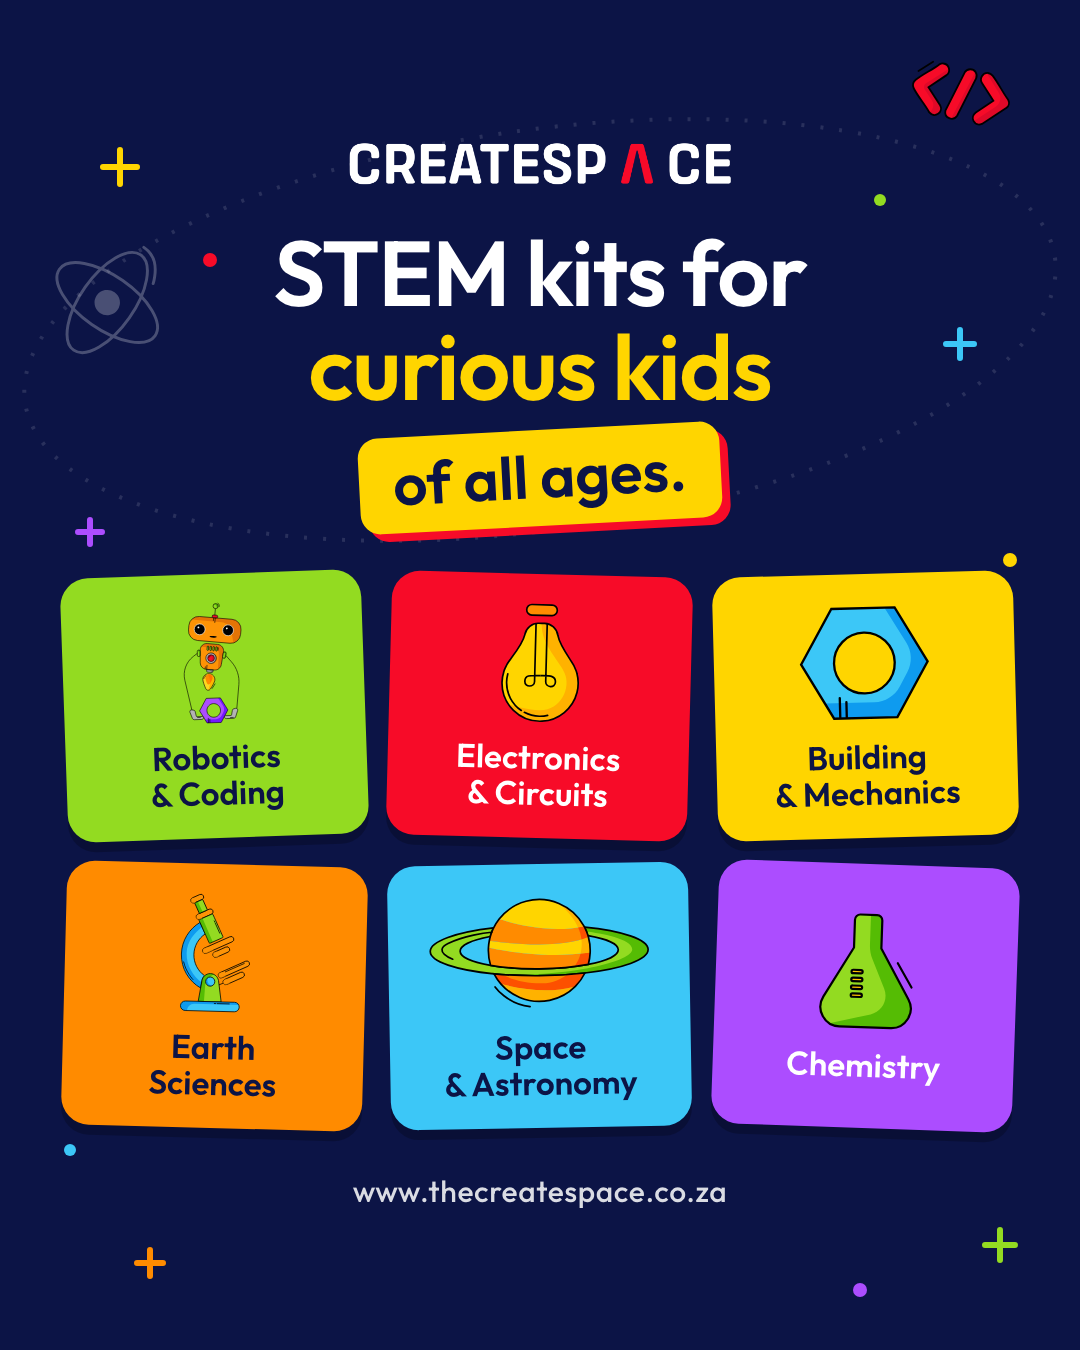
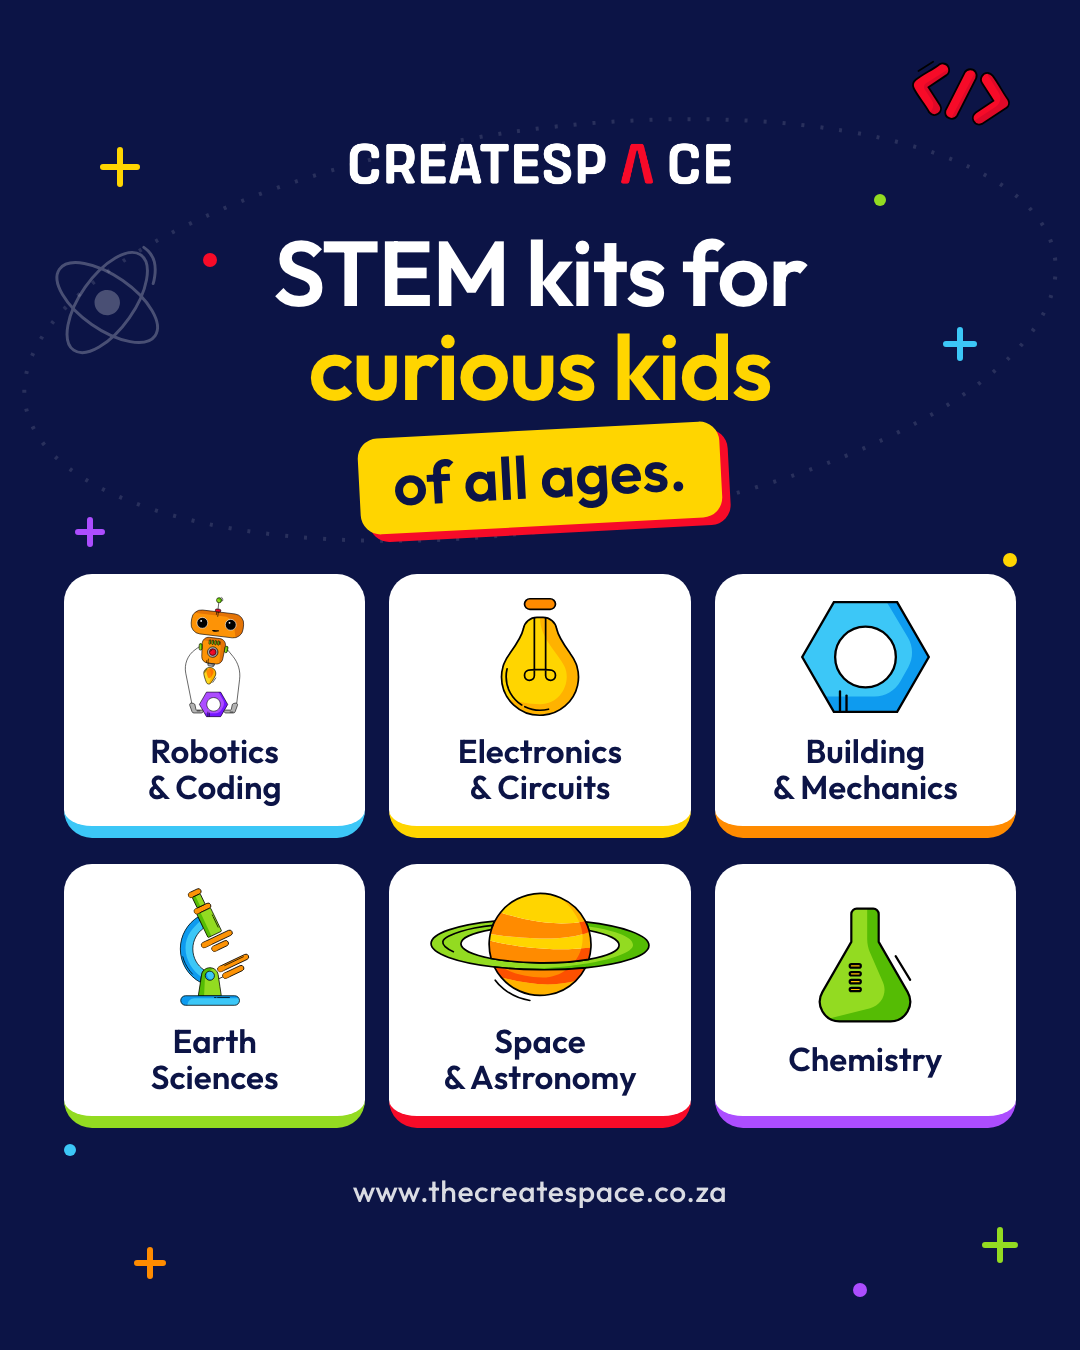
Return the Instagram post to straight white tiles, keeping the background

diff --git a/marketing/campaigns/2026-10-google-profile/instagram-categories.html b/marketing/campaigns/2026-10-google-profile/instagram-categories.html
@@ -60,8 +60,8 @@
       width: 100%;
     }
     .tile {
-      background: var(--bg);
-      color: var(--ink, var(--cs-navy));
+      background: var(--cs-white);
+      color: var(--cs-navy);
       border-radius: 28px;
       height: 264px;
       display: flex;
@@ -69,8 +69,7 @@
       align-items: center;
       justify-content: center;
       gap: 14px;
-      transform: rotate(var(--tilt, 0deg));
-      box-shadow: 0 10px 0 rgba(0, 0, 0, 0.22);
+      border-bottom: 12px solid var(--accent);
     }
     .tile img { height: 124px; width: auto; max-width: 240px; display: block; }
     .tile span { font-size: 33px; font-weight: 600; line-height: 1.1; }
@@ -112,12 +111,12 @@
     <div class="sticker">of all ages.</div>
 
     <div class="grid">
-      <div class="tile" style="--bg: var(--cs-green); --tilt: -2deg"><img src="../../creative/kit/illustrations/robot-1.svg" alt=""><span>Robotics<br>&amp; Coding</span></div>
-      <div class="tile" style="--bg: var(--cs-red); --ink: var(--cs-white); --tilt: 1.5deg"><img src="../../creative/kit/illustrations/lightbulb.svg" alt=""><span>Electronics<br>&amp; Circuits</span></div>
-      <div class="tile" style="--bg: var(--cs-yellow); --tilt: -1.5deg"><img src="../../creative/kit/illustrations/nut-1.svg" alt=""><span>Building<br>&amp; Mechanics</span></div>
-      <div class="tile" style="--bg: var(--cs-orange); --tilt: 1.5deg"><img src="../../creative/kit/illustrations/microscope.svg" alt=""><span>Earth<br>Sciences</span></div>
-      <div class="tile" style="--bg: var(--cs-blue); --tilt: -1deg"><img src="../../creative/kit/illustrations/planet-1.svg" alt=""><span>Space<br>&amp; Astronomy</span></div>
-      <div class="tile" style="--bg: var(--cs-purple); --ink: var(--cs-white); --tilt: 2deg"><img src="../../creative/kit/illustrations/beaker-1.svg" alt=""><span>Chemistry</span></div>
+      <div class="tile" style="--accent: var(--cs-blue)"><img src="../../creative/kit/illustrations/robot-1.svg" alt=""><span>Robotics<br>&amp; Coding</span></div>
+      <div class="tile" style="--accent: var(--cs-yellow)"><img src="../../creative/kit/illustrations/lightbulb.svg" alt=""><span>Electronics<br>&amp; Circuits</span></div>
+      <div class="tile" style="--accent: var(--cs-orange)"><img src="../../creative/kit/illustrations/nut-1.svg" alt=""><span>Building<br>&amp; Mechanics</span></div>
+      <div class="tile" style="--accent: var(--cs-green)"><img src="../../creative/kit/illustrations/microscope.svg" alt=""><span>Earth<br>Sciences</span></div>
+      <div class="tile" style="--accent: var(--cs-red)"><img src="../../creative/kit/illustrations/planet-1.svg" alt=""><span>Space<br>&amp; Astronomy</span></div>
+      <div class="tile" style="--accent: var(--cs-purple)"><img src="../../creative/kit/illustrations/beaker-1.svg" alt=""><span>Chemistry</span></div>
     </div>
 
     <p class="url">www.thecreatespace.co.za</p>
